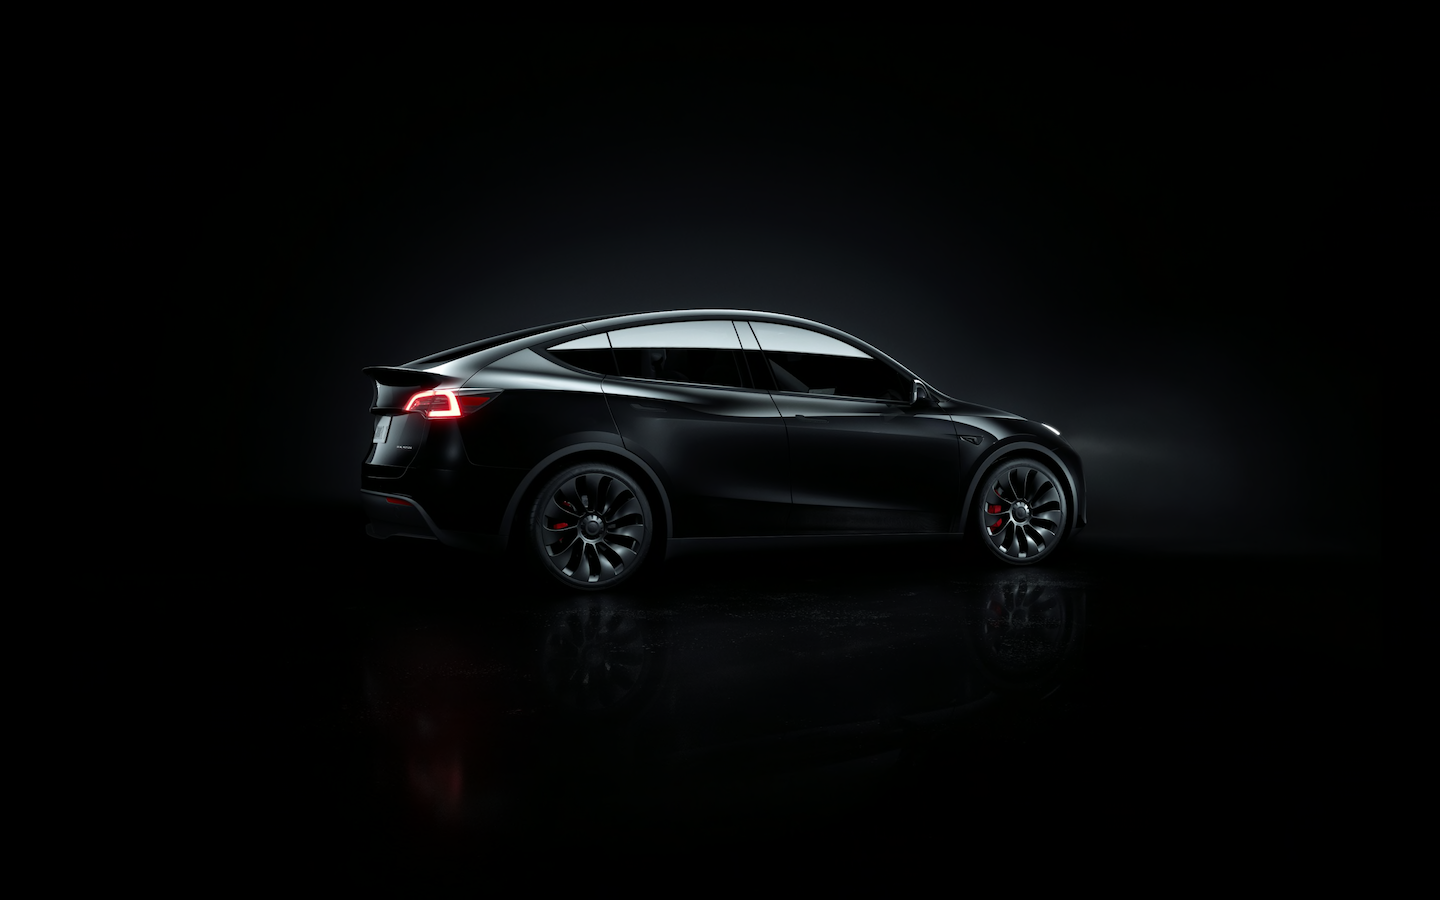
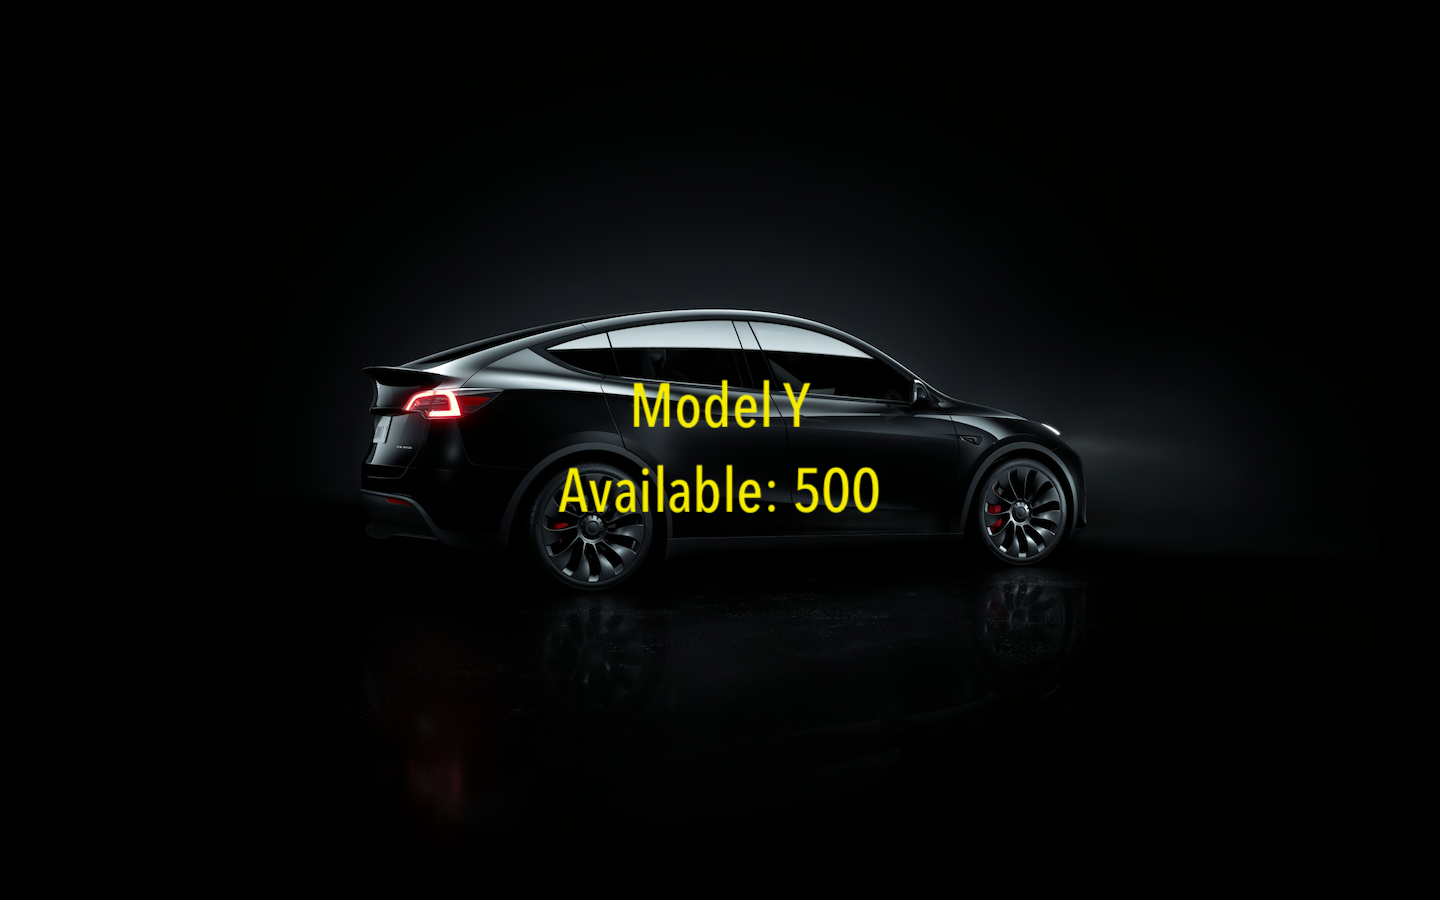
button actions

Changed region(s): [[0.375, 0.4044, 0.625, 0.5911]]

diff --git a/app/api/frame/route.ts b/app/api/frame/route.ts
@@ -19,6 +19,21 @@ async function getResponse(req: NextRequest): Promise<NextResponse> {
   if (message?.button === 1) {
 
     console.log("button 1 pressed");
+
+    return new NextResponse(
+      getFrameHtmlResponse({
+        buttons: [
+          {
+            label: `Go Back`,
+          },
+        ],
+        image: {
+          src: `${NEXT_PUBLIC_URL}/models.png`,
+          aspectRatio: '1:1',
+        },
+        postUrl: `${NEXT_PUBLIC_URL}/api/frame`,
+      }),
+    );
     
   }
 
@@ -48,7 +63,8 @@ async function getResponse(req: NextRequest): Promise<NextResponse> {
         },
       ],
       image: {
-        src: `${NEXT_PUBLIC_URL}/modely.png`,
+        src: `${NEXT_PUBLIC_URL}/home.png`,
+        aspectRatio: '1:1',
       },
       postUrl: `${NEXT_PUBLIC_URL}/api/frame`,
     }),

diff --git a/app/page.tsx b/app/page.tsx
@@ -18,7 +18,7 @@ const frameMetadata = getFrameMetadata({
     },
   ],
   image: {
-    src: `${NEXT_PUBLIC_URL}/modely.png`,
+    src: `${NEXT_PUBLIC_URL}/home.png`,
     aspectRatio: '1:1',
   },
   postUrl: `${NEXT_PUBLIC_URL}/api/frame`,
@@ -30,7 +30,7 @@ export const metadata: Metadata = {
   openGraph: {
     title: 'teslainventory',
     description: 'LFG',
-    images: [`${NEXT_PUBLIC_URL}/park-1.png`],
+    images: [`${NEXT_PUBLIC_URL}/home.png`],
   },
   other: {
     ...frameMetadata,
